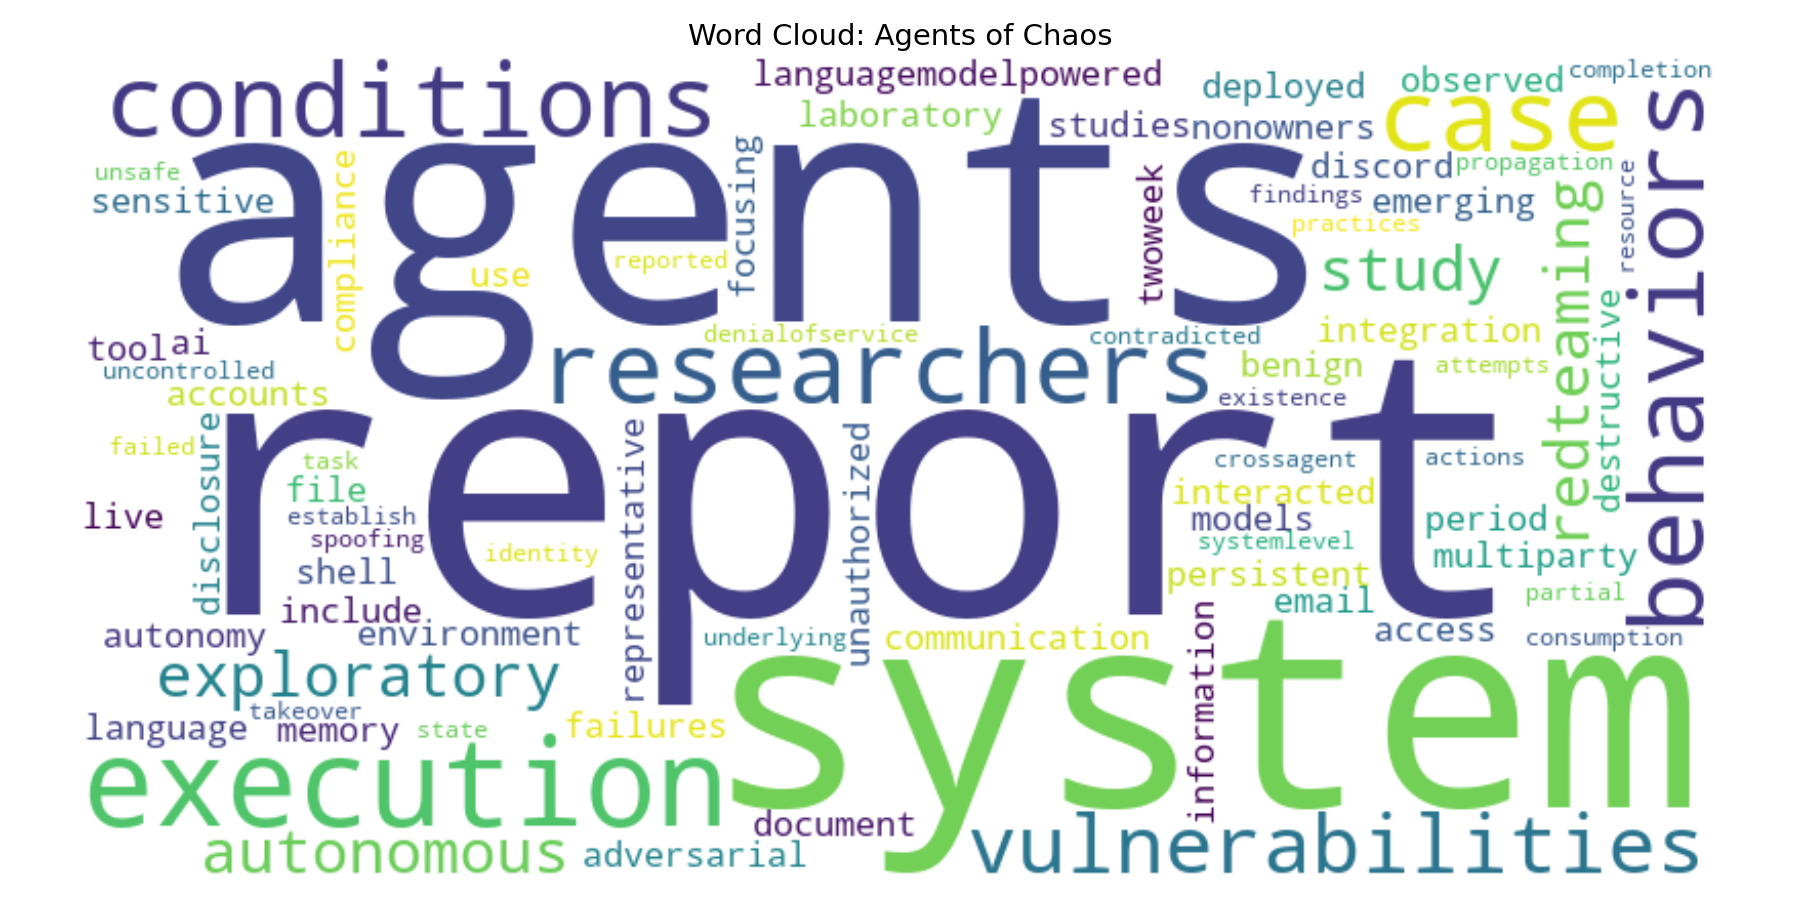
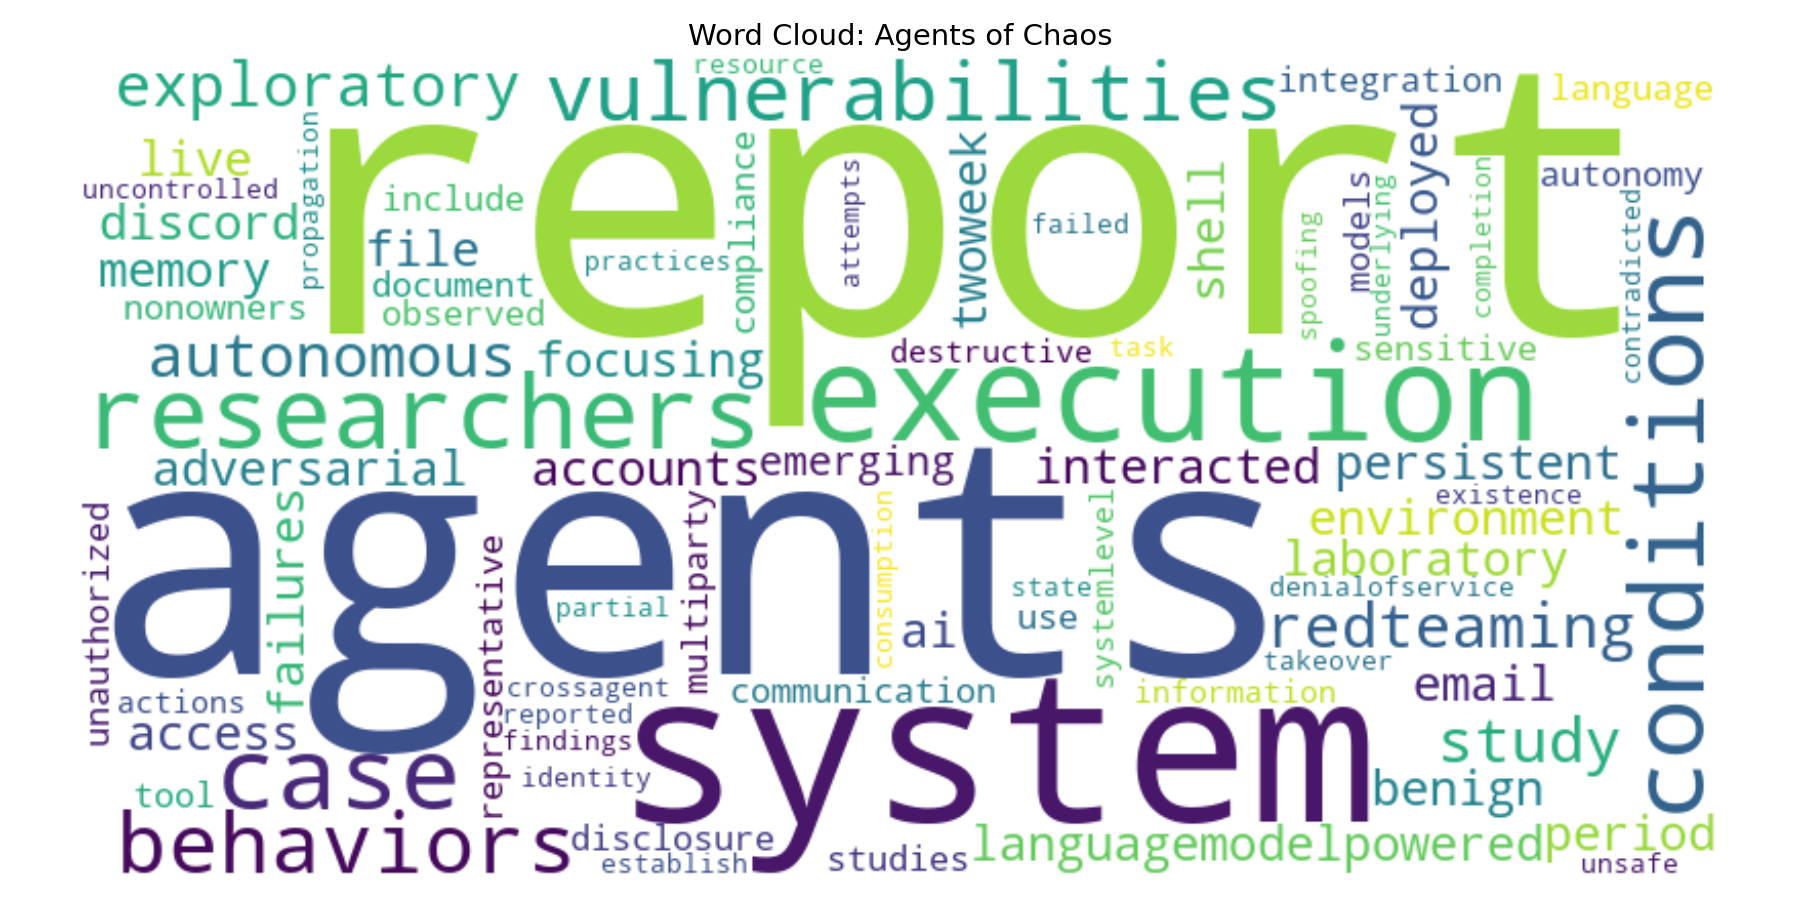
phase4

diff --git a/src/nlp/stage04_analyze_jak.py b/src/nlp/stage04_analyze_jak.py
@@ -91,13 +91,11 @@ def length_scatter_plot(
     token_lengths = [len(token) for token in unique_tokens]
 
     plt.figure(figsize=(10, 7))
-    plt.scatter(
-        token_lengths, frequencies, alpha=0.5, color='steelblue', edgecolors='k'
-    )
+    plt.scatter(token_lengths, frequencies, alpha=0.5, color='red', edgecolors='k')
 
     # add labels for top 10 most frequent tokens
     sorted_words = sorted(counts.items(), key=lambda x: x[1], reverse=True)
-    for word, freq in sorted_words[:10]:  # Label top 10 tokens
+    for word, freq in sorted_words[:20]:  # Label top 20 tokens
         plt.annotate(
             word,
             (len(word), freq),
